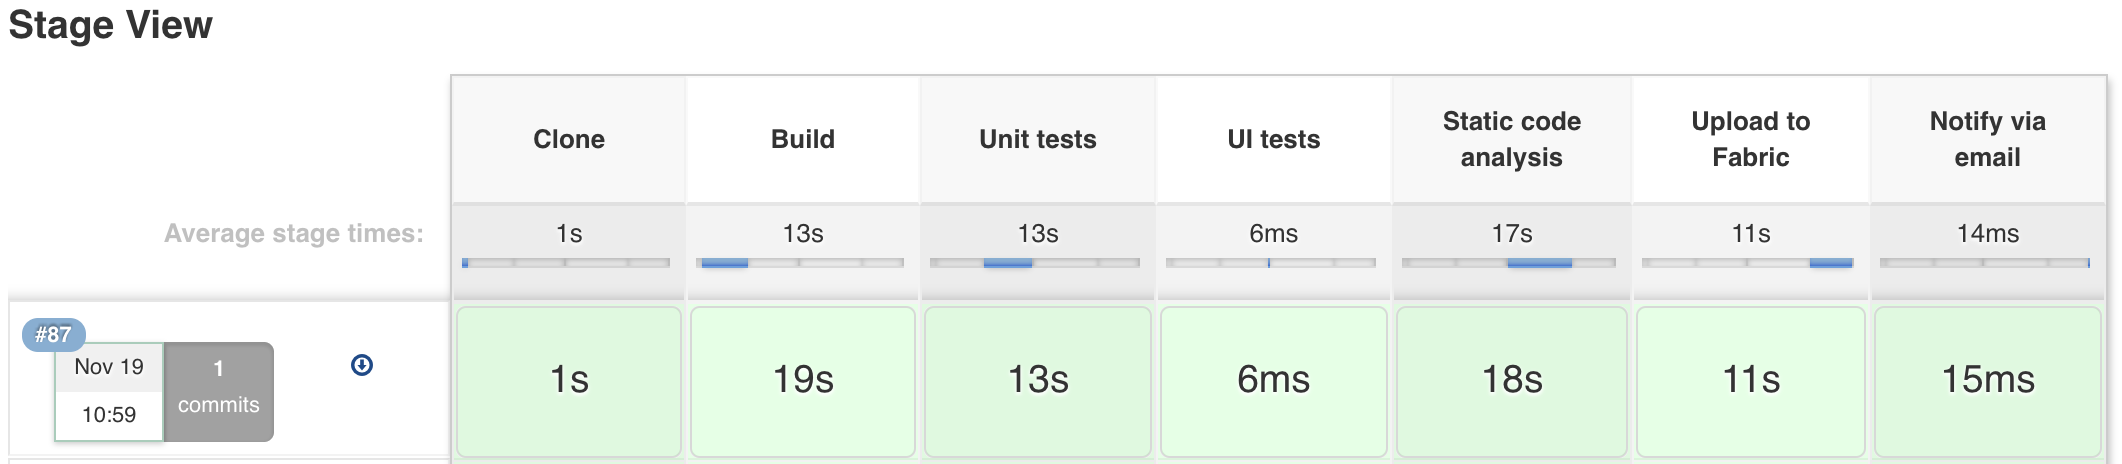
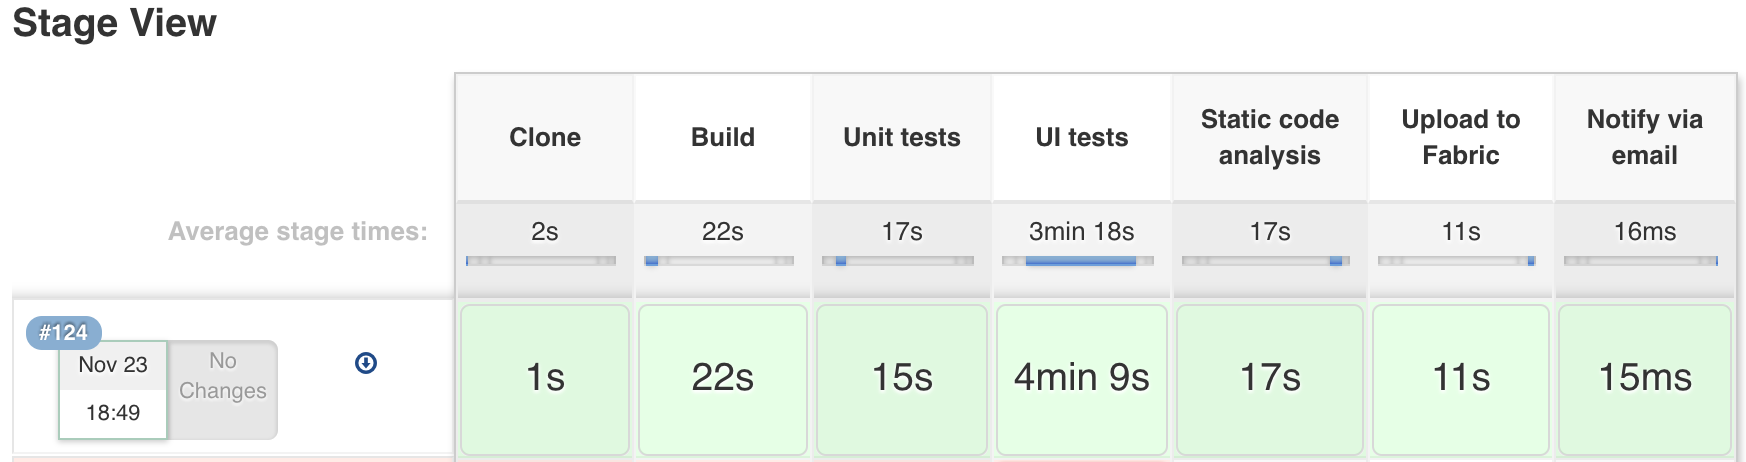
Make UI tests work in Jenkins Pipeline job

diff --git a/JENKINS.md b/JENKINS.md
@@ -122,10 +122,6 @@ How to create Pipeline job:
 
     <img src="/screenshots/pipeline_build_status.png">
 
-**Note**: UI tests stage is disabled at the moment. 
-It works on local PC, but doesn't work in Jenkins for some reason.
-Same emulator configuration works fine in regular, non-pipeline Jenkins job described in previous section.
-
 ### Install/Update Android SDK
 
 Different Android project might use different Android SDK versions and build tools.
